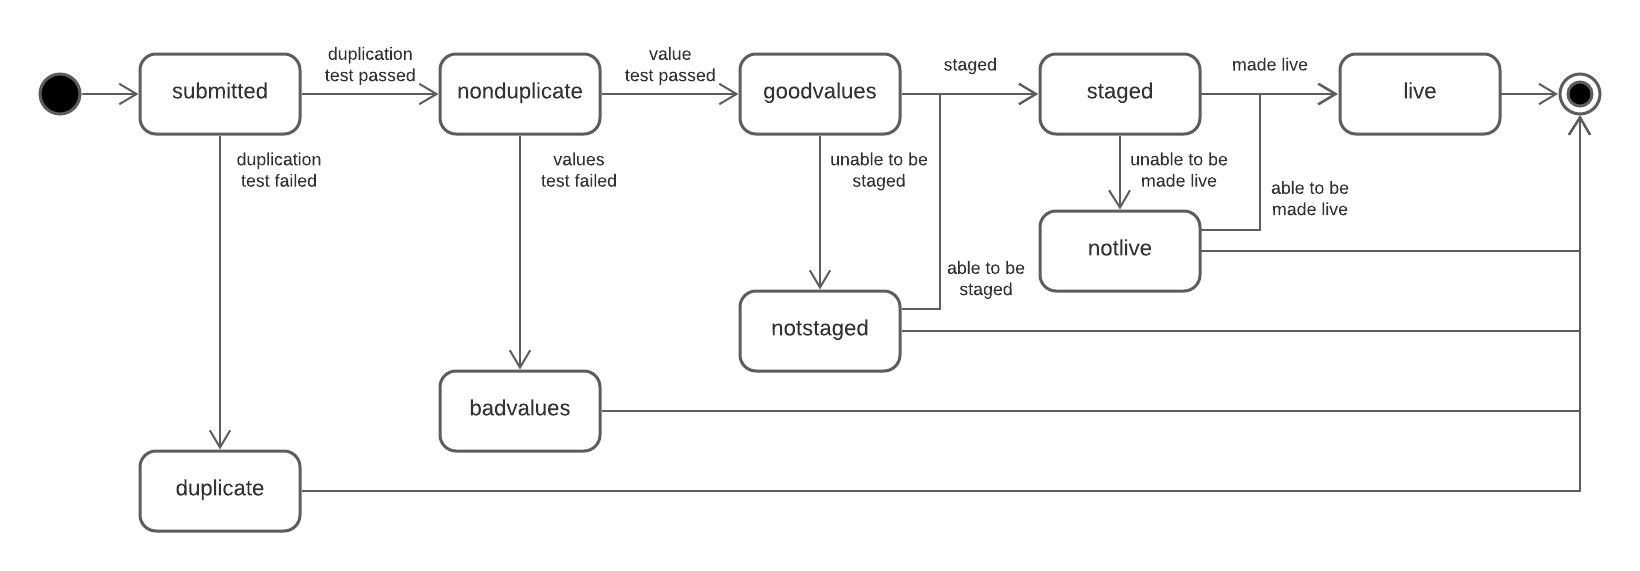
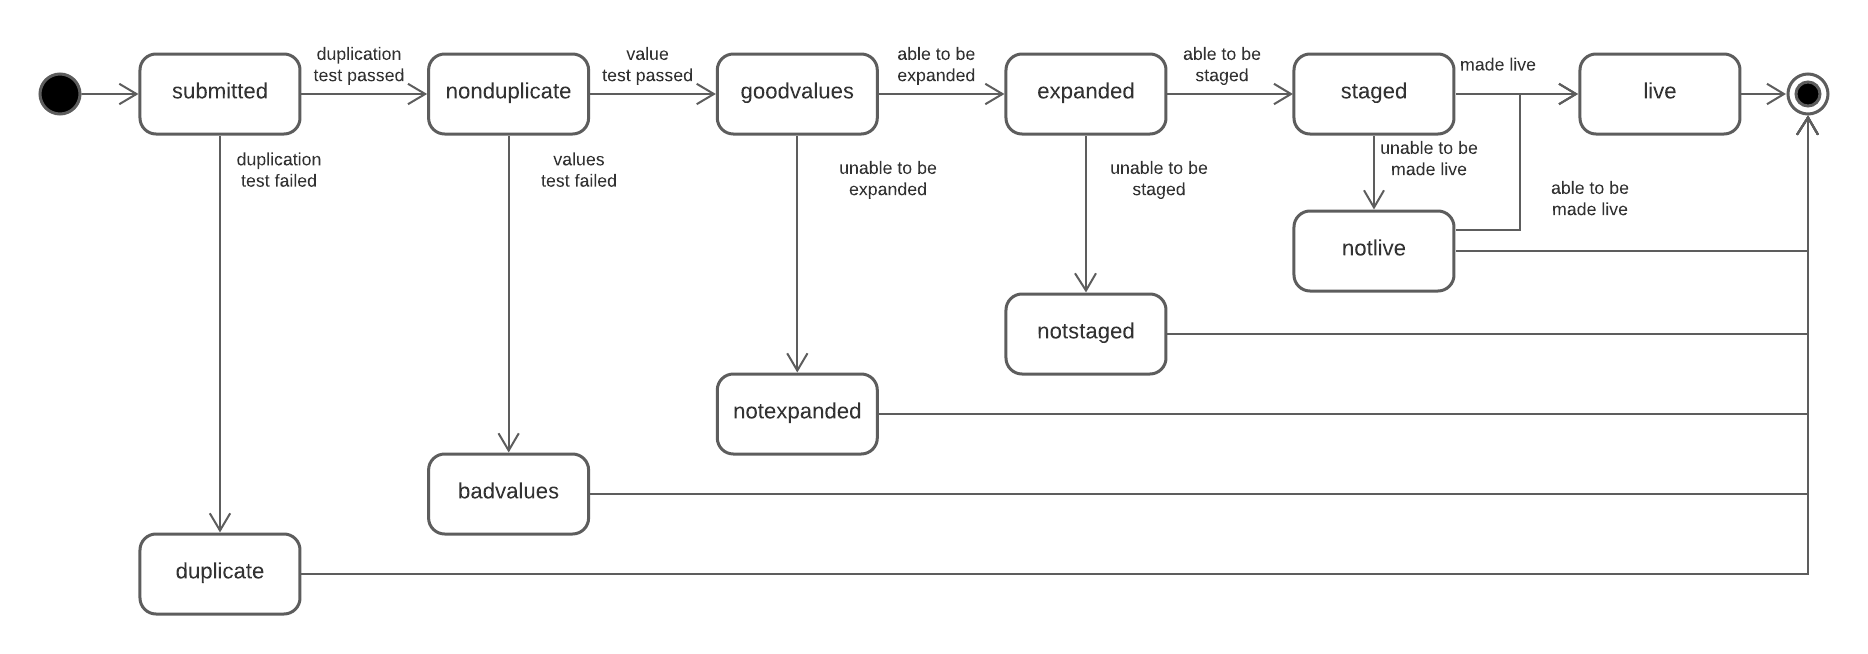
Deploying to gh-pages from  @ e0a97e60fd74cd31afb26c12cf47d317d537f604 🚀

diff --git a/specification.html b/specification.html
@@ -4323,6 +4323,14 @@ Messages submitted to the BDR Gateway only have their status tracked <em>after</
 <td class="tableblock halign-left valign-top"><p class="tableblock">The message&#8217;s values - object IRIs and literal data values - are valid according to the value-based validation tests within the BDR</p></td>
 </tr>
 <tr>
+<td class="tableblock halign-left valign-top"><p class="tableblock"><code>notexpanded</code></p></td>
+<td class="tableblock halign-left valign-top"><p class="tableblock">The message content has not been expanded upon successfully by the system and ABIS reasoning rules. This status is only relevant to <code>CreateMessage</code> messages</p></td>
+</tr>
+<tr>
+<td class="tableblock halign-left valign-top"><p class="tableblock"><code>expanded</code></p></td>
+<td class="tableblock halign-left valign-top"><p class="tableblock">The message content has been expanded upon successfully by the system and ABIS reasoning rules. This status is only relevant to <code>CreateMessage</code> messages</p></td>
+</tr>
+<tr>
 <td class="tableblock halign-left valign-top"><p class="tableblock"><code>staged</code></p></td>
 <td class="tableblock halign-left valign-top"><p class="tableblock">The message is stored in the Staging BDR environment ready for synchronisation to the Live environment</p></td>
 </tr>
@@ -4454,6 +4462,44 @@ Messages submitted to the BDR Gateway only have their status tracked <em>after</
 </div>
 </div>
 <div class="paragraph">
+<p><code>notexpanded</code>:</p>
+</div>
+<div class="listingblock">
+<div class="content">
+<pre class="highlight"><code class="language-turtle" data-lang="turtle">&lt;message/1234&gt;
+    a bdrm:CreateMessage ;
+    bdrm:absorbtionStatus bdrm:notexpanded ;
+    bdrm:statusMessage "The message could not be expanded " ;
+.</code></pre>
+</div>
+</div>
+<div class="paragraph">
+<p>The message <code>&lt;message/1234&gt;</code> has failed successful expansion following system and ABIS rules.</p>
+</div>
+<div class="admonitionblock note">
+<table>
+<tr>
+<td class="icon">
+<div class="title">Note</div>
+</td>
+<td class="content">
+At the time of writing, "system and ABIS rules" that expand data are not defined, so references to particular rules can&#8217;t be made. When rules are articulated, they will be idenified by IRI so errors in expansion will be referenced similar to the <code>badvalues</code> errors.
+</td>
+</tr>
+</table>
+</div>
+<div class="paragraph">
+<p><code>expanded</code>:</p>
+</div>
+<div class="listingblock">
+<div class="content">
+<pre class="highlight"><code class="language-turtle" data-lang="turtle">&lt;message/1234&gt;
+    a bdrm:CreateMessage ;
+    bdrm:absorbtionStatus bdrm:expanded ;
+.</code></pre>
+</div>
+</div>
+<div class="paragraph">
 <p><code>notstaged</code>:</p>
 </div>
 <div class="listingblock">
@@ -4540,7 +4586,7 @@ Messages submitted to the BDR Gateway only have their status tracked <em>after</
 </div>
 <div id="footer">
 <div id="footer-text">
-Last updated 2022-02-02 23:24:47 UTC
+Last updated 2022-02-04 23:41:54 UTC
 </div>
 </div>
 </body>

diff --git a/standard.html b/standard.html
@@ -845,7 +845,7 @@ The document that describes the business rules and other requirements that this 
 </div>
 <div id="footer">
 <div id="footer-text">
-Last updated 2022-02-02 23:24:47 UTC
+Last updated 2022-02-04 23:41:54 UTC
 </div>
 </div>
 </body>
